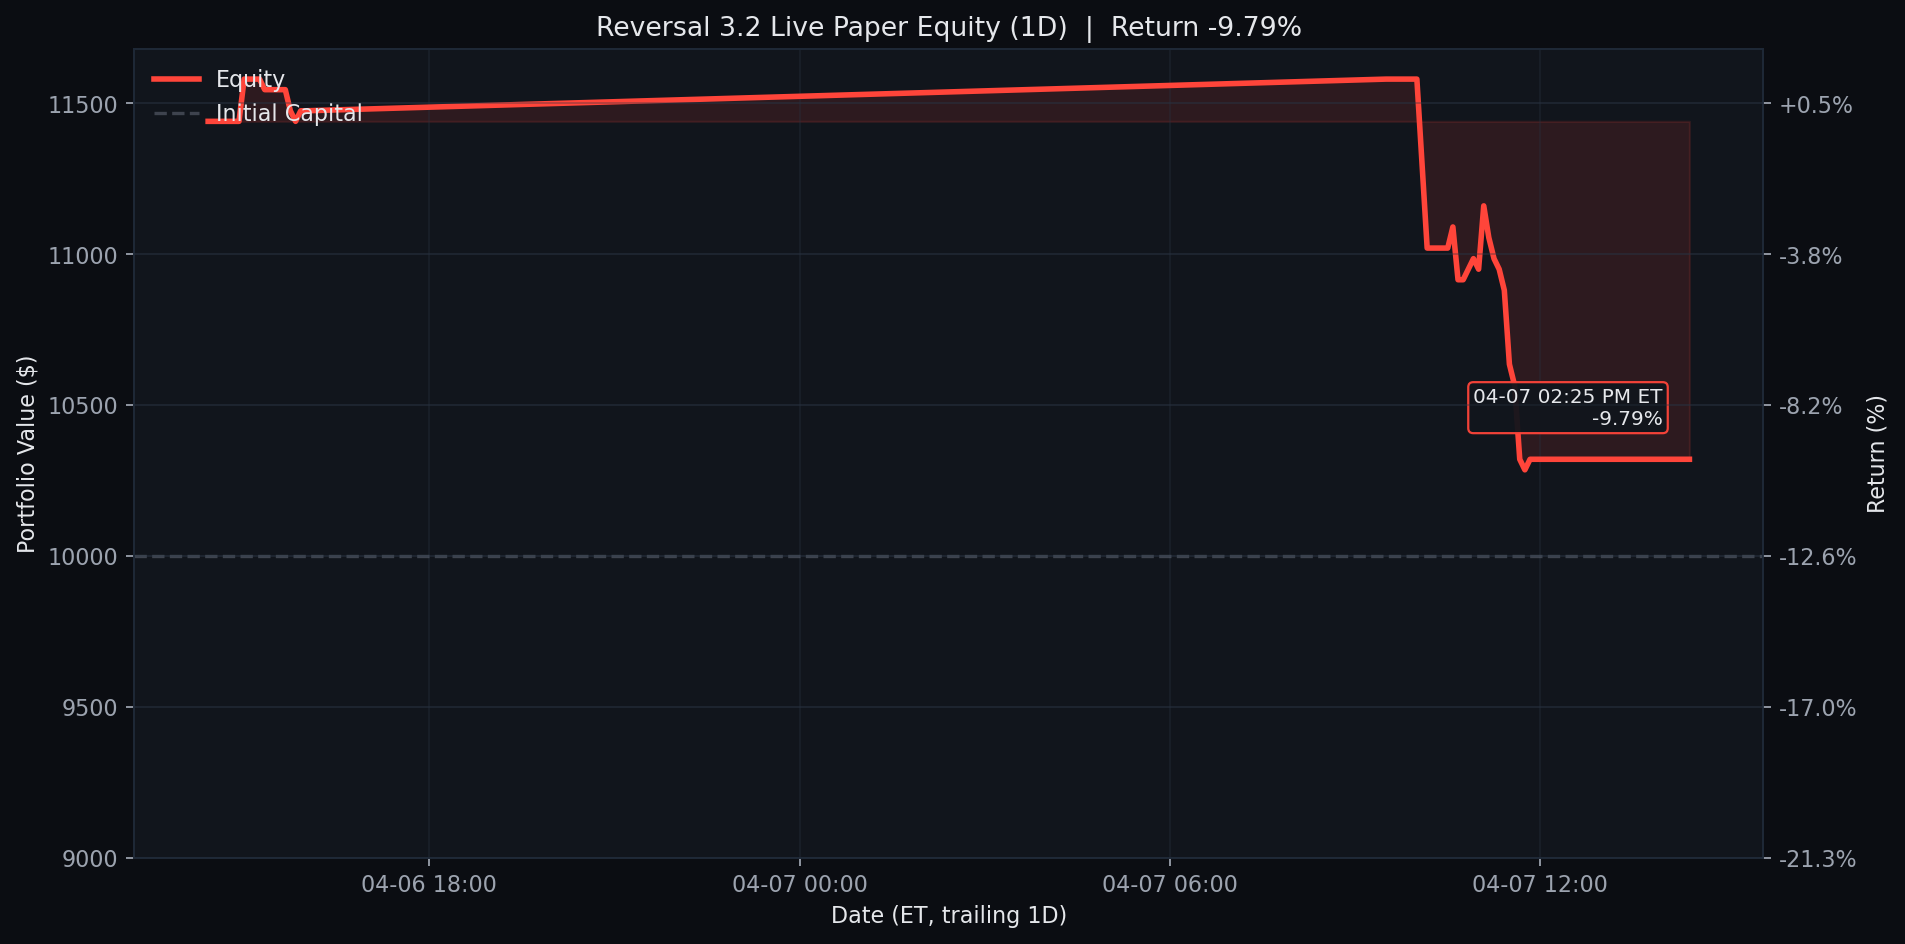
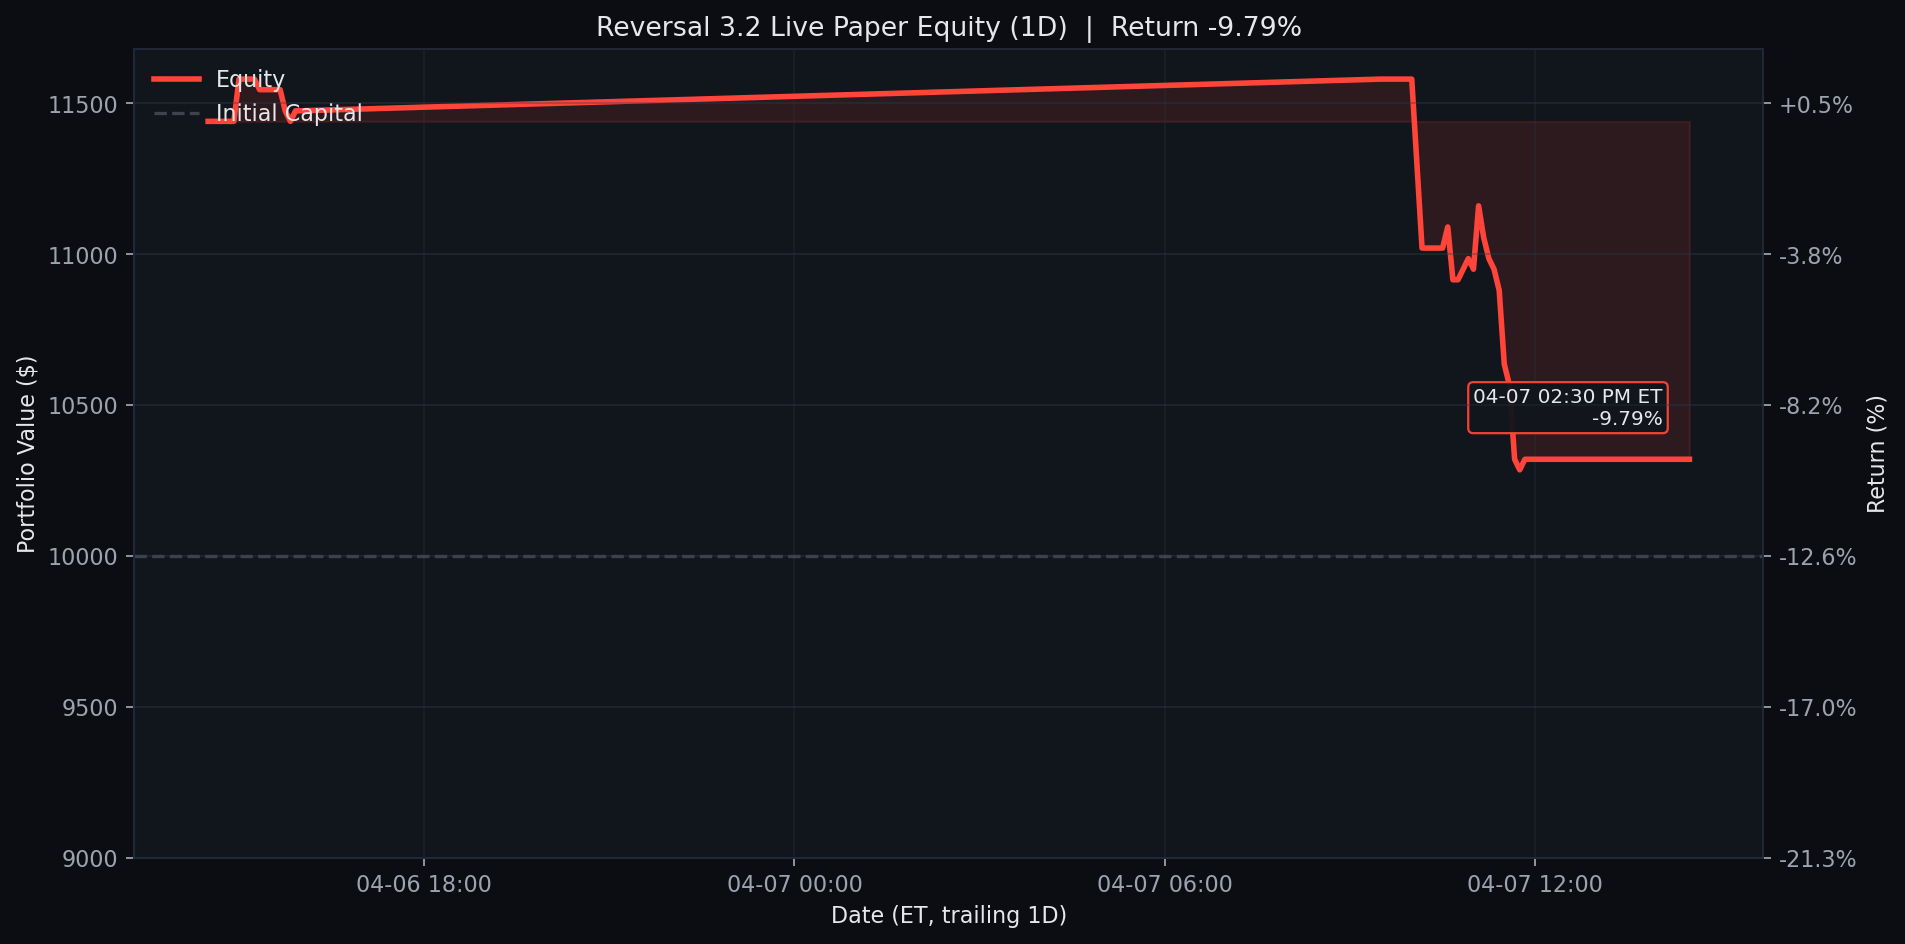
Update Reversal 3.2 live paper test 2026-04-07 14:30 ET

diff --git a/results/reversal_3_2_live/README.md b/results/reversal_3_2_live/README.md
@@ -1,6 +1,6 @@
 # Reversal 3.2 Live Paper Test
 
-Last updated (ET): `2026-04-07 14:25:01 EDT`
+Last updated (ET): `2026-04-07 14:30:00 EDT`
 Last processed slot: `manage_1430`
 
 ## Active Configuration
@@ -40,24 +40,25 @@ ticker    contract_symbol entry_trade_date_et exit_trade_date_et  entry_option_p
 
 ```text
 ticker  success_rate_%  matched_signals  current_drop_%  target_rebound_$  target_price  rolling_sigma_20d_%  call_candidate
-  MRVL           97.06               34            1.15              0.88        109.13                70.84            True
-  NVDA           92.59               27            1.04              1.30        177.08                33.70            True
-  COST           92.31               13            1.12              8.01       1015.12                13.04            True
-  CDNS           91.11               45            0.64              1.25        278.86                25.26            True
-  UPRO           90.32               31            1.34              0.95        100.33                53.86            True
-   KDP           89.47               19            0.58              0.11         25.65                20.32            True
-  SNPS           88.89               45            0.62              1.71        396.34                35.70            True
-  PCAR           88.89               36            0.77              0.64        118.05                21.97            True
-  ORLY           88.57               35            0.75              0.48         91.92                23.11            True
-  ASML           88.57               35            0.71              6.48       1301.23                47.16            True
-  CTAS           87.88               33            0.58              0.69        171.39                28.73            True
-  VRTX           87.80               41            0.55              1.67        433.58                40.01            True
+  MRVL           97.06               34            1.20              0.92        109.12                70.84            True
+  NVDA           92.59               27            1.12              1.39        177.04                33.70            True
+  COST           92.31               13            1.08              7.68       1015.26                13.04            True
+  UPRO           90.32               31            1.26              0.89        100.36                53.86            True
+   LIN           90.00               10            1.36              4.74        497.44                19.02            True
+  ORLY           89.74               39            0.63              0.41         91.96                23.11            True
+   KDP           89.47               19            0.54              0.10         25.66                20.32            True
+  CDNS           89.13               46            0.58              1.14        278.90                25.26            True
+  SNPS           88.89               45            0.62              1.74        396.33                35.70            True
+  PCAR           88.89               36            0.75              0.62        118.05                21.97            True
+  ASML           88.24               34            0.78              7.13       1300.95                47.16            True
+  VRTX           87.50               40            0.62              1.88        433.50                40.01            True
 ```
 
 ## Recent Events
 
 ```text
                     timestamp_et        slot   event_type                          detail
+2026-04-07T14:30:00.927122-04:00 manage_1430 slot_skipped {"reason": "already_processed"}
 2026-04-07T14:25:01.881173-04:00 manage_1430 slot_skipped {"reason": "already_processed"}
 2026-04-07T14:10:00.879771-04:00 manage_1400 slot_skipped {"reason": "already_processed"}
 2026-04-07T14:05:03.892395-04:00 manage_1400 slot_skipped {"reason": "already_processed"}
@@ -67,7 +68,6 @@ ticker  success_rate_%  matched_signals  current_drop_%  target_rebound_$  targe
 2026-04-07T13:35:03.883059-04:00 manage_1330 slot_skipped {"reason": "already_processed"}
 2026-04-07T13:30:05.887210-04:00 manage_1330 slot_skipped {"reason": "already_processed"}
 2026-04-07T13:25:05.882654-04:00 manage_1330 slot_skipped {"reason": "already_processed"}
-2026-04-07T13:10:04.926634-04:00 manage_1300 slot_skipped {"reason": "already_processed"}
 ```
 
 ## Equity Curves
@@ -77,20 +77,20 @@ Each chart is generated from the same live equity series with no-lookahead marks
 <details>
 <summary><strong>1D</strong></summary>
 
-![Reversal 3.2 Live Equity 1D](../../assets/reversal_3_2_live_equity_1d.png?v=20260407142501)
+![Reversal 3.2 Live Equity 1D](../../assets/reversal_3_2_live_equity_1d.png?v=20260407143000)
 
 </details>
 
 <details open>
 <summary><strong>1W</strong></summary>
 
-![Reversal 3.2 Live Equity 1W](../../assets/reversal_3_2_live_equity.png?v=20260407142501)
+![Reversal 3.2 Live Equity 1W](../../assets/reversal_3_2_live_equity.png?v=20260407143000)
 
 </details>
 
 <details>
 <summary><strong>1M</strong></summary>
 
-![Reversal 3.2 Live Equity 1M](../../assets/reversal_3_2_live_equity_1m.png?v=20260407142501)
+![Reversal 3.2 Live Equity 1M](../../assets/reversal_3_2_live_equity_1m.png?v=20260407143000)
 
 </details>

diff --git a/README.md b/README.md
@@ -3,7 +3,7 @@
 <!-- reversal-3.2-live:start -->
 ## Reversal 3.2 Live Paper Test
 
-- Last updated (ET): `2026-04-07 14:25:01 EDT`
+- Last updated (ET): `2026-04-07 14:30:00 EDT`
 - Equity: `$10,320.00` | Realized: `$320.00` | Unrealized: `$0.00` | Open positions: `0`
 - Today closed trades: `1`
 - Current slot: `manage_1430`
@@ -17,21 +17,21 @@ _None_
 <details>
 <summary><strong>1D</strong></summary>
 
-![Reversal 3.2 Live Equity 1D](assets/reversal_3_2_live_equity_1d.png?v=20260407142501)
+![Reversal 3.2 Live Equity 1D](assets/reversal_3_2_live_equity_1d.png?v=20260407143000)
 
 </details>
 
 <details open>
 <summary><strong>1W</strong></summary>
 
-![Reversal 3.2 Live Equity 1W](assets/reversal_3_2_live_equity.png?v=20260407142501)
+![Reversal 3.2 Live Equity 1W](assets/reversal_3_2_live_equity.png?v=20260407143000)
 
 </details>
 
 <details>
 <summary><strong>1M</strong></summary>
 
-![Reversal 3.2 Live Equity 1M](assets/reversal_3_2_live_equity_1m.png?v=20260407142501)
+![Reversal 3.2 Live Equity 1M](assets/reversal_3_2_live_equity_1m.png?v=20260407143000)
 
 </details>
 
